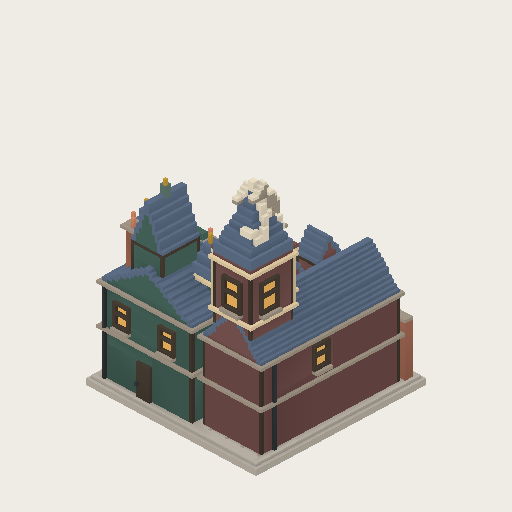
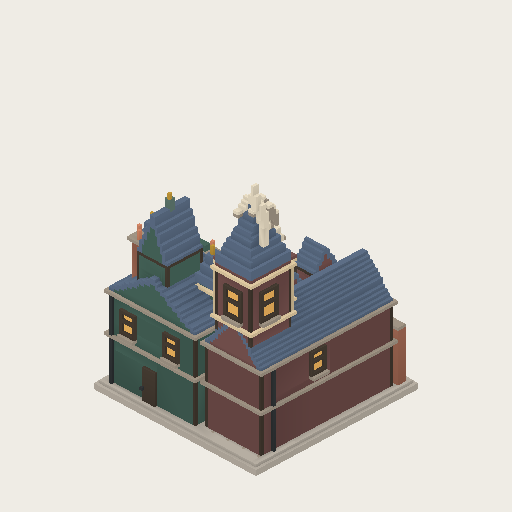
feat: raise dragon tail and detail alley entrance upper shop

Changed region(s): [[0.1562, 0.3438, 0.8438, 0.8438], [0.5312, 0.8438, 0.5625, 0.875], [0.4375, 0.8438, 0.4688, 0.875]]

diff --git a/src/generators/diagonAlley.js b/src/generators/diagonAlley.js
@@ -9,7 +9,7 @@ export function diagonAlleySpec() {
     cap:{type:"gable",heightVoxels:roofHeight,orientation},
     materials:{wall,roof:"slate",trim:"timber",window:"warmWindow"},facade:{enabled:false}
   });
-  const spec=createUrbanMassingSpec({id:DIAGON_ASSET_ID,seed:"diagon-alley-v7",widthCells:2,depthCells:2,
+  const spec=createUrbanMassingSpec({id:DIAGON_ASSET_ID,seed:"diagon-alley-v8",widthCells:2,depthCells:2,
     masses:[shop("wand-shop",-18,-1,22,52,29,"shopWine",12),
       shop("bookshop",12,-19,34,20,31,"shopGreen",10),
       shop("apothecary",21,15,18,20,17,"shopWine",9),
@@ -18,7 +18,7 @@ export function diagonAlleySpec() {
       shop("wine-dormer-middle",-9,0,8,9,5,"shopWine",6,32,"east_west"),
       {...shop("landmark-tower",-18,-19,14,16,28,"shopWine",18,29),
         cap:{type:"spire",heightVoxels:18}} ]});
-  return {...spec,assetId:DIAGON_ASSET_ID,assetRevision:7,footprint:{...spec.footprint,worldWidth:8,worldDepth:8}};
+  return {...spec,assetId:DIAGON_ASSET_ID,assetRevision:8,footprint:{...spec.footprint,worldWidth:8,worldDepth:8}};
 }
 
 export function addDiagonDetails(buffer) {
@@ -105,6 +105,17 @@ export function addDiagonDetails(buffer) {
   flowerbox(wand,3,16,5);
   flowerbox(books,20,17,6);
   flowerbox(potions,6,1,5);
+  // The entrance shop has a modest upstairs workshop, distinct from the oriels.
+  const entranceUpper=facade(-7,10,"right");
+  for(const u of [2,9]) {
+    window(entranceUpper,u,20,3,6);
+    entranceUpper("shopGreen",u-2,20,1,1,6);
+    entranceUpper("shopGreen",u+4,20,1,1,6);
+    flowerbox(entranceUpper,u-1,17,5);
+  }
+  entranceUpper("timber",0,27,1,14,1,3);
+  entranceUpper("slate",-1,28,1,16,1,4);
+  for(const u of [0,13]) entranceUpper("timber",u,25,1,1,2,2);
   // The two-storey wine shop is the low foreground; a single rear tower
   // carries the landmark silhouette rather than a full extra storey.
   const towerFront=facade(-25,-11,"front"), towerSide=facade(-11,-27,"right");
@@ -133,11 +144,16 @@ export function addDiagonDetails(buffer) {
     box("limestone",x===-22?x+1:x-1,y+1,z,2,3,2);
     box("stoneShadow",x,y,z+2,2,1,1);
   }
-  const tail=[[-19,-19],[-20,-19],[-21,-19],[-21,-20],[-22,-20],[-23,-20],[-23,-21],[-24,-21],[-24,-22],[-24,-23],[-24,-24],[-23,-24],[-23,-25],[-22,-25],[-21,-25]];
+  const tail=[[-19,-19],[-20,-19],[-21,-19],[-21,-20],[-22,-20],[-23,-20]];
   let previousY=roofY(-19,-19);
   for(const [x,z] of tail) {
     const y=(spireSurface.get(`${x},${z}`)??57)+1;
     box("limestone",x,Math.min(y,previousY),z,2,Math.abs(y-previousY)+2,2);
+    previousY=y;
+  }
+  // An upward curl lifts clear of the slope, with a fine skyward tip.
+  for(const [x,y,z,w] of [[-24,72,-21,2],[-25,75,-22,2],[-25,78,-23,2],[-24,81,-24,2],[-23,84,-24,1]]) {
+    box("limestone",x,Math.min(y,previousY),z,w,Math.abs(y-previousY)+2,2);
     previousY=y;
   }
   // Folded wings run lengthwise beside the back, tapering toward the tail.
@@ -219,7 +235,7 @@ export function addDiagonDetails(buffer) {
 export function createDiagonAlley({cellWorldSize=4,nightLighting=0}={}) {
   const root=createVoxelMassingLab({spec:diagonAlleySpec(),renderStrategy:"greedy",nightLighting,voxelDetailPass:addDiagonDetails});
   root.name="DiagonAlley";root.scale.setScalar(cellWorldSize/4);
-  root.userData={...root.userData,assetId:DIAGON_ASSET_ID,assetRevision:7,representation:"special-landmark-voxel",
+  root.userData={...root.userData,assetId:DIAGON_ASSET_ID,assetRevision:8,representation:"special-landmark-voxel",
     sphereProjectionRoot:true,footprint:"2x2",entrance:"north",authoredParcelSize:8,voxelSize:.125};
   return root;
 }

diff --git a/docs/visual-development/diagon-alley-001/README.md b/docs/visual-development/diagon-alley-001/README.md
@@ -1,4 +1,4 @@
-# 斜角巷 · 2×2 体素商业街（第七版）
+# 斜角巷 · 2×2 体素商业街（第八版）
 
 两层魔杖店、带高阁楼的书店、低矮药剂店夹出一条 L 形内部巷道，魔杖店后部增加独立高塔体量，形成地标。入口朝 +Z，地块为 8×8 世界单位。临街砖墙定格在正在打开的状态：不规则窄缝、前后错动砖端，保留隐蔽感，不含动画。巷道先向里再右转，保持第二版收窄后的布局。
 
@@ -9,6 +9,8 @@
 第六版将飞龙改为攀附姿态：移除塔尖底座，身体降低到前侧坡面，双爪和卷尾依据真实屋顶高度场贴合台阶；头颈及双翼仍抬起，尖顶从身体后方露出。
 
 第七版将腹部沿屋顶高度场贴伏，四爪扣住坡面，头颈侧转朝向巷子，双翼沿背部纵向收拢。酒红店铺内侧增加临近入口的橱窗、门和吊牌，外侧隐蔽砖墙不变。81 项相关测试与生产构建通过。
+
+第八版将龙尾卷向天空，保留贴伏姿态；入口店铺二楼新增成对窄窗、墨绿窗板、浅挑板岩雨棚与两只花箱，和邻铺浅砂色凸窗形成区别。重跑 3 项资产测试与生产构建通过。
 
 ![正面](front.png)
 
@@ -23,7 +25,7 @@
 - 整栋酒红、墨绿墙面，旧红砖入口，共用蓝灰板岩屋顶和暖琥珀窗光；浅砂色仅作窄饰边，不作大面积墙底。
 - 新增 `shopGreen`、`shopWine` 哑光漆木材质，用于底层店面和吊牌；使用既有 painted 表面着色，非金属、非自发光。
 - `src/generators/diagonAlley.js` 是固定资产源，复用 UrbanMassingSpec、VoxelInstanceBuffer 与 greedy meshing；所有面位于 0.125 体素网格。
-- 9302 三角形；已有/新建 2×2 斜角巷、放置预览、CPU 可视化共用工厂。非 2×2 历史记录保留旧路径。
+- 9674 三角形；已有/新建 2×2 斜角巷、放置预览、CPU 可视化共用工厂。非 2×2 历史记录保留旧路径。
 - 不改变卡牌遮蔽效果、成本或其他玩法。巷道为资产内部视觉空间，不写入城市道路网络。
 - CPU 预览采用简化日光，不完整代表游戏内 AO、动态阴影和夜间发光。
 
